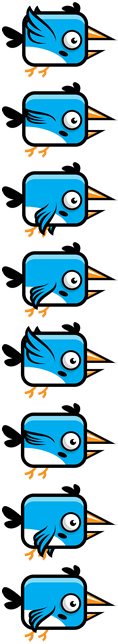
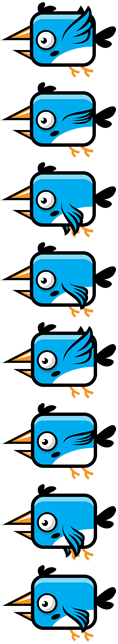
A gente claramente não está commitando na aula enquanto outros grupos apresentam
Consertando orientação do jogo.

diff --git a/Desktop/SM/Jogo/JS/stateMain.js b/Desktop/SM/Jogo/JS/stateMain.js
@@ -49,11 +49,11 @@ var StateMain = {
 
         //Adiciona o chao
         this.floor=game.add.tileSprite(0,game.height*.9,game.width,50,"floor");
-        this.floor.autoScroll(-200,0);
+        this.floor.autoScroll(200,0);
         //
         //
         //adiciona o personagem principal 
-        this.hero = game.add.sprite(game.width * .2, this.floor.y, "hero");
+        this.hero = game.add.sprite(game.width * .8, this.floor.y, "hero");
         //faz animacao dos personagens
         this.hero.animations.add("die", this.makeArray(0, 10), 12, false);
         this.hero.animations.add("jump", this.makeArray(20, 30), 12, false);
@@ -130,14 +130,14 @@ var StateMain = {
             var block = game.add.sprite(0, -i * 32, "block");
             this.blocks.add(block);
         }
-        this.blocks.x = game.width - this.blocks.width
+        this.blocks.x = 0 + this.blocks.width
         this.blocks.y = this.floor.y - 32;
         //
         //Loop para cada bloco e fisica
         this.blocks.forEach(function(block) {
             //permite fisica
             game.physics.enable(block, Phaser.Physics.ARCADE);
-            block.body.velocity.x = -200;
+            block.body.velocity.x = 200;
             //Aplica alguma gravidade mas nao muita para os blocos nao colidirem uns com os outros
             block.body.gravity.y = 3;
             //Seta bounce para os blocos reagirem ao contato com o personagem
@@ -152,7 +152,7 @@ var StateMain = {
         //Seleciona um numero de cima da tela entre 10 e 40 porcento da altura da tela para spwanar
         var birdY = game.rnd.integerInRange(game.height * .1, game.height * .4);
         //Add sprites do passaro
-        this.bird = game.add.sprite(game.width + 100, birdY, "bird");
+        this.bird = game.add.sprite(0, birdY, "bird");
         this.bird.animations.add("fly",this.makeArray(0,8),12,true);
         this.bird.animations.play("fly");
         //
@@ -160,7 +160,7 @@ var StateMain = {
         //adiciona fisica
         game.physics.enable(this.bird, Phaser.Physics.ARCADE);
         //Seta velocidade acima da dos blocos para evitar paredes impossiveis
-        this.bird.body.velocity.x = -340;
+        this.bird.body.velocity.x = 340;
         //Seta bounce do passaro
         this.bird.body.bounce.set(2, 2);
 
@@ -198,14 +198,14 @@ var StateMain = {
         //get primeiro filo
         var fchild = this.blocks.getChildAt(0);
         //se fora da tela reseta logica de criar blocos
-        if (fchild.x < -game.width) {
+        if (fchild.x >= game.width) {
             this.makeBlocks();
 			score += 10;
 			scoreDisplay.text = score;
 			
         }
         //se passaro fora da tela reseta logica de criar passaros
-        if (this.bird.x < 0) {
+        if (this.bird.x > game.width) {
             this.makeBird();
 			score += 15;
 			scoreDisplay.text = score;
